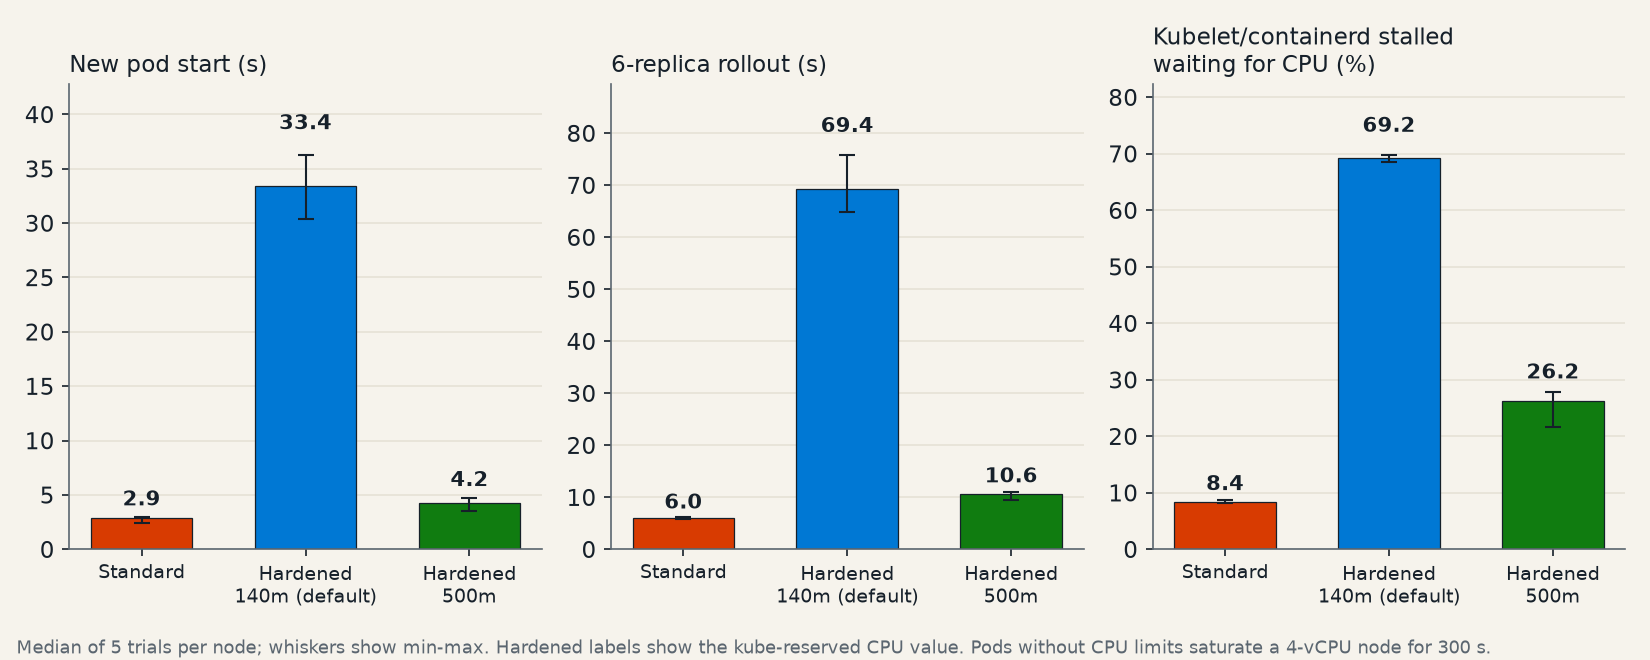
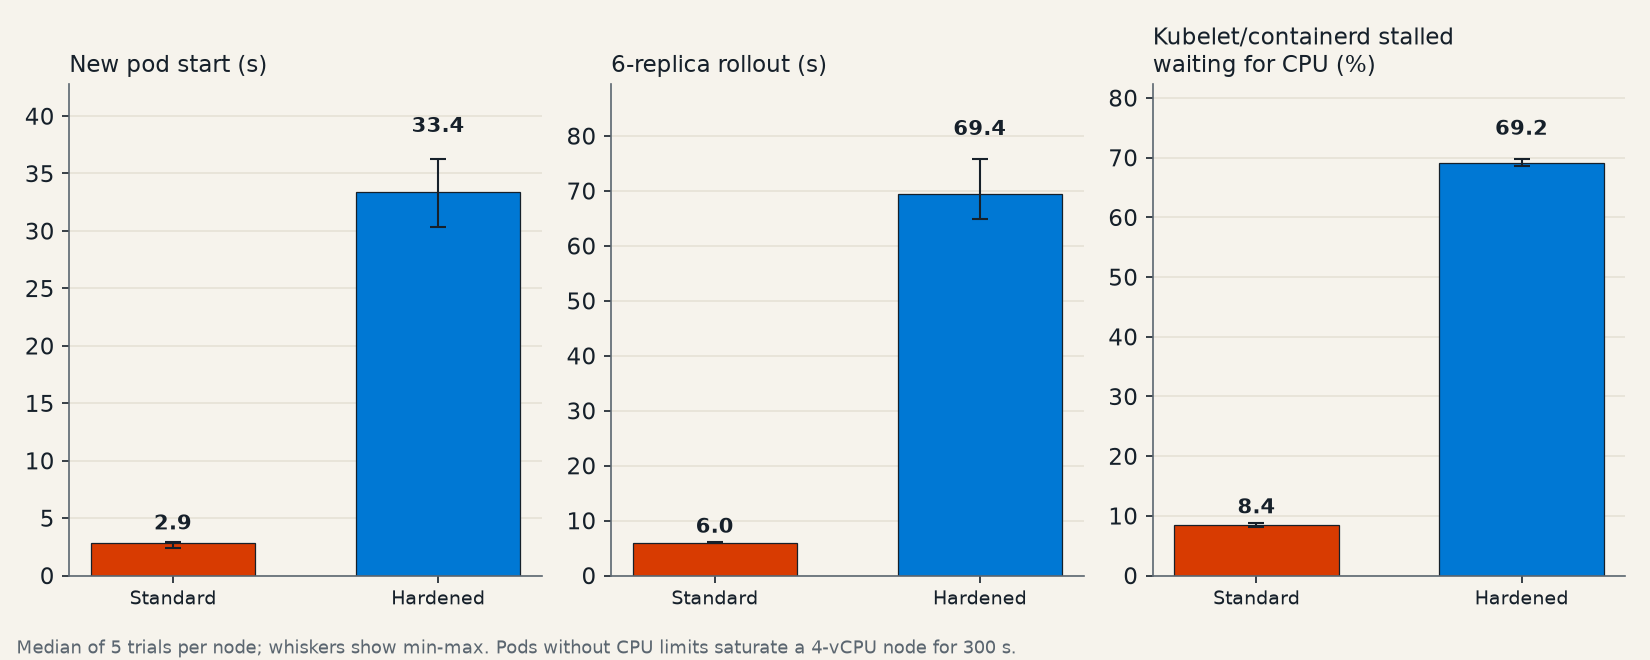
Condense test methodology and reframe CPU findings in Node Hardening post
Replace the testing-framework table with a short summary, present the CPU-saturation results as something to note rather than a tuning recommendation, and update the title, description, CPU chart, and hero image to match.

diff --git a/website/blog/2026-10-23-aks-node-hardening/index.md b/website/blog/2026-10-23-aks-node-hardening/index.md
@@ -1,6 +1,6 @@
 ---
-title: "AKS Node Hardening: benchmarks, capacity, and CPU tuning"
-description: "Benchmarks show how AKS Node Hardening protects nodes from runaway memory, what it costs in allocatable capacity, and how to tune its kube-reserved CPU."
+title: "Benchmarking AKS Node Hardening: memory and capacity"
+description: "Benchmarks show how AKS Node Hardening protects nodes from runaway memory, what it costs in allocatable capacity, and what to know about CPU saturation."
 date: 2026-10-23
 authors: ["spencer-libbing"]
 tags:
@@ -14,7 +14,7 @@ When a pod on an Azure Kubernetes Service (AKS) node leaks memory or saturates C
 
 Node Hardening is an AKS preview feature that changes how Linux nodes reserve and protect resources. It enforces kube-reserved and system-reserved capacity with Linux control groups (cgroups), raises the hard memory eviction threshold, and adds soft eviction so the kubelet can remove pods gracefully before a node runs out of memory.
 
-We ran controlled benchmarks on otherwise identical standard and hardened nodes to measure what changes in practice. Node Hardening clearly protected nodes from runaway memory, cost between 4% and 15% of allocatable memory, and slowed pod operations on CPU-saturated nodes until we raised the kube-reserved CPU value.
+We ran controlled benchmarks on otherwise identical standard and hardened nodes to measure what changes in practice. Node Hardening clearly protected nodes from runaway memory and cost between 4% and 15% of allocatable memory. We also noted that pod operations slowed down on nodes whose CPU was fully saturated.
 
 <!-- truncate -->
 
@@ -30,16 +30,15 @@ We ran controlled benchmarks on otherwise identical standard and hardened nodes 
 | How runaway pods were stopped | 5 kernel OOM kills | 3 kubelet evictions, 2 pod-cgroup OOM kills | The kubelet, rather than the kernel's last-resort OOM killer, did most of the work. |
 | Time the kubelet and containerd stalled on memory | up to 7.1% | 0% | Node agents kept running at full speed during memory pressure. |
 | Allocatable memory per node | baseline | 4% to 15% less | Plan for slightly less schedulable capacity. |
-| New pod start while pods saturate CPU | 2.9 s | 33.4 s | With default settings, the kubelet gets a small CPU share under contention. |
-| New pod start while pods saturate CPU, kube-reserved CPU at 500m | 2.9 s | 4.2 s | Raising kube-reserved CPU recovered most of the difference. |
+| New pod start on a node with fully saturated CPU | 2.9 s | 33.4 s | Something to note if your nodes regularly saturate CPU. |
 
-Values are medians across repeated trials. The sections below describe the methodology, the full results, and the limitations.
+Values are medians across repeated trials.
 
 ## What Node Hardening changes
 
 Node Hardening is a cluster-level setting for Linux node pools. When it's enabled, AKS makes the following changes on each node:
 
-- **Enforced reservations:** The kubelet and containerd run in a dedicated `kubereserved.slice` cgroup, and host services run in `system.slice`. Each cgroup's memory is limited to its reserved value, and the `kubepods.slice` cgroup that contains every pod is limited to the remaining node memory. CPU reservations become proportional CPU weights rather than hard limits, as described in [CPU saturation: tune kube-reserved CPU](#cpu-saturation-tune-kube-reserved-cpu).
+- **Enforced reservations:** The kubelet and containerd run in a dedicated `kubereserved.slice` cgroup, and host services run in `system.slice`. Each cgroup's memory is limited to its reserved value, and the `kubepods.slice` cgroup that contains every pod is limited to the remaining node memory. CPU reservations become proportional CPU weights rather than hard limits, as described in [CPU saturation: something to note](#cpu-saturation-something-to-note).
 - **System-reserved capacity:** Host operating system services get their own CPU, memory, and ephemeral storage reservation.
 - **Larger kube-reserved memory:** Kube-reserved memory scales with the maximum number of pods per node, which accounts for the kubelet and containerd overhead of running more pods.
 - **Earlier, more graceful eviction:** The hard eviction threshold for available memory scales with node size, and new soft eviction thresholds give pods a grace period to shut down before the node reaches the hard threshold.
@@ -48,30 +47,7 @@ For the full list of default values and the settings that you can customize, see
 
 ## How we tested
 
-We created two AKS clusters that differed only in the `--enable-node-hardening` setting, and later a third hardened cluster to test a tuning change.
-
-| Setting | Value |
-| --- | --- |
-| Kubernetes version | 1.35.8 |
-| Node image | AKSUbuntu-2404gen2containerd-202609.15.0 |
-| Networking | Azure CNI Overlay |
-| Test node | One `Standard_D4ads_v5` node (4 vCPUs, 16 GiB), `maxPods` 30, tainted so that only test pods ran on it |
-| Allocation measurements | Additional node pools from 8 GiB to 64 GiB, with `maxPods` 30 and 250 |
-| Region | East US 2 |
-
-Each trial ran one of two scenarios on the test node for 300 seconds, after a 60-second baseline:
-
-- **Runaway memory:** Four pods without memory limits each grew by 64 MiB every 2.5 seconds, up to 5 GiB each. The combined demand of about 20 GiB exceeded the node's memory, so the node had to stop them.
-- **CPU saturation:** Four pods without CPU limits each ran four busy processes, and a six-replica deployment was restarted every 30 seconds to exercise the kubelet and containerd.
-
-During every trial, we measured the following:
-
-- A well-behaved Guaranteed quality-of-service web app on the test node, called five times per second from another node.
-- How long a new pod on the test node took to become Ready, sampled every 20 seconds.
-- Node conditions, lease renewals, kubelet health checks, kubelet evictions, and node events.
-- On the node itself: available memory, cgroup memory and CPU pressure (pressure stall information, or PSI), cgroup OOM kills, and kubelet and containerd CPU use.
-
-We ran five trials of each scenario on the standard and hardened nodes, and five CPU-saturation trials on the tuned hardened node. Stressor pods were removed and the node was confirmed healthy before each trial started.
+We compared two otherwise identical AKS 1.35 clusters, one with Node Hardening enabled, on a 4-vCPU, 16 GiB test node. In each five-minute trial, pods without resource limits either leaked memory past the node's capacity or saturated its CPU. We ran five trials of each scenario on each cluster and measured node health, a well-behaved app on the same node, and how quickly new pods started. We also measured allocatable capacity on node sizes from 8 GiB to 64 GiB.
 
 ## What hardening reserves on each node
 
@@ -120,52 +96,23 @@ On the hardened node, two mechanisms acted earlier:
 
 In every trial, the Guaranteed app kept running on both nodes, and the kubelet only evicted the leaking pods. Neither node became NotReady. The hardened node reported the `MemoryPressure` condition for several minutes after each trial, which includes the kubelet's default five-minute pressure transition period. While that condition is set, the node has the `node.kubernetes.io/memory-pressure` taint, which can keep new pods from being scheduled on it.
 
-## CPU saturation: tune kube-reserved CPU
+## CPU saturation: something to note
 
-The CPU results showed a tradeoff that's important to understand before you enable Node Hardening on nodes that run CPU-intensive pods without CPU limits.
+In AKS, memory saturation is a more common cause of node instability than CPU saturation. The CPU results are worth knowing about if your nodes regularly run at full CPU, for example, with CPU-intensive pods that don't have CPU limits.
 
-![Pod start time, rollout time, and kubelet CPU stalls while pods saturate CPU](./cpu-saturation.png)
+![Pod start time, rollout time, and kubelet CPU stalls on standard and hardened nodes while pods saturate CPU](./cpu-saturation.png)
 
-| CPU saturation, median of trials | Standard | Hardened (default) | Hardened, kube-reserved CPU 500m |
-| --- | ---: | ---: | ---: |
-| New pod start time | 2.9 s | 33.4 s | 4.2 s |
-| Six-replica rollout time | 6.0 s | 69.4 s | 10.6 s |
-| Time the kubelet and containerd were stalled waiting for CPU (median 10-second PSI) | 8% | 69% | 26% |
-| Well-behaved app, 99th percentile latency | 12.1 ms | 10.6 ms | 9.8 ms |
-| Node NotReady time | 0 s | 0 s | 0 s |
+| CPU saturation, median of trials | Standard | Hardened |
+| --- | ---: | ---: |
+| New pod start time | 2.9 s | 33.4 s |
+| Six-replica rollout time | 6.0 s | 69.4 s |
+| Time the kubelet and containerd were stalled waiting for CPU (median 10-second PSI) | 8% | 69% |
+| Well-behaved app, 99th percentile latency | 12.1 ms | 10.6 ms |
+| Node NotReady time | 0 s | 0 s |
 
-The difference comes from how Linux divides CPU time between cgroups under contention. With cgroup v2, the kubelet converts each reservation into a CPU weight, and the kernel shares CPU in proportion to those weights.
+When pods saturate a node's CPU, Linux shares CPU time between cgroups in proportion to their CPU weights, which the kubelet derives from the reservations. On a standard node, the kubelet and containerd run in `system.slice` with the default weight of 100. On a hardened 4-vCPU node, they run in `kubereserved.slice`, whose weight of 6 comes from the default kube-reserved CPU of 140 millicores. That share is enough for steady-state work, but it leaves less room for bursts of pod starts and container operations while CPU is fully saturated.
 
-| Cgroup that contains the kubelet and containerd | Standard | Hardened (default 140m) | Hardened (500m) |
-| --- | ---: | ---: | ---: |
-| Cgroup | `system.slice` | `kubereserved.slice` | `kubereserved.slice` |
-| CPU weight | 100 | 6 | 20 |
-| CPU weight of `kubepods.slice` | 151 | 147 | 133 |
-| Approximate CPU share for that cgroup when pods saturate CPU | about 40% | about 4% | about 13% |
-
-On a standard node, the kubelet and containerd run in `system.slice` with the default weight of 100, so that cgroup gets a large share of CPU when pods saturate it. On a hardened node, their weight comes from the kube-reserved CPU value. The default of 140 millicores on a 4-vCPU node translates to a weight of 6, which is enough for steady-state work but not for bursts of pod starts and container operations.
-
-The well-behaved app, which had its own CPU request, wasn't affected on any node, and no node became NotReady. The slowdown affected node operations such as starting pods and rolling out deployments.
-
-Raising kube-reserved CPU to 500 millicores with a custom kubelet configuration reduced the median pod start time from 33.4 seconds to 4.2 seconds, compared with 2.9 seconds on the standard node. It also cut the median rollout time from 69.4 seconds to 10.6 seconds. The tradeoff is 360 millicores less allocatable CPU per node.
-
-```json
-{
-  "kubeReserved": {
-    "cpuMillicores": 500
-  }
-}
-```
-
-```azurecli
-az aks nodepool add \
-    --resource-group <resource-group-name> \
-    --cluster-name <cluster-name> \
-    --name <node-pool-name> \
-    --kubelet-config ./kubelet-config.json
-```
-
-Values that you don't set keep the Node Hardening defaults. Appropriate CPU limits can reduce this risk by bounding each pod's CPU consumption, but the combined workload can still saturate the node unless enough CPU remains available for node services.
+The well-behaved app, which had its own CPU request, wasn't affected, and no node became NotReady. Only node operations such as starting pods and rolling out deployments slowed down, and they returned to normal within seconds after CPU contention ended. Kube-reserved CPU is one of the [Node Hardening settings that you can customize](https://learn.microsoft.com/azure/aks/node-hardening#customize-node-hardening-settings). In a separate test, a value of 500 millicores brought the median pod start time to 4.2 seconds.
 
 ## Other observations
 
@@ -177,7 +124,7 @@ Values that you don't set keep the Node Hardening defaults. Appropriate CPU limi
 
 - **Consider Node Hardening if** your nodes run workloads that can exceed their memory requests, such as caches, JVM applications, or batch jobs, and you've seen kernel OOM kills, evictions of the wrong pods, or unresponsive nodes.
 - **Plan capacity first:** Expect 4% to 15% less allocatable memory, 100 millicores less allocatable CPU, and 1 GiB less ephemeral storage per node.
-- **Tune kube-reserved CPU for CPU-heavy nodes:** If pods regularly saturate node CPU, test a higher `kubeReserved.cpuMillicores` value, such as 500 millicores on a 4-vCPU node.
+- **Keep CPU saturation in mind:** If your nodes regularly run at full CPU, check pod start and rollout times after you enable Node Hardening.
 - **Validate host agents:** Check the memory use of any systemd services that you add to nodes against the system-reserved memory.
 - **Test with your own workloads:** Start with a nonproduction cluster, and reproduce the burst patterns that have caused node pressure in the past.
 
